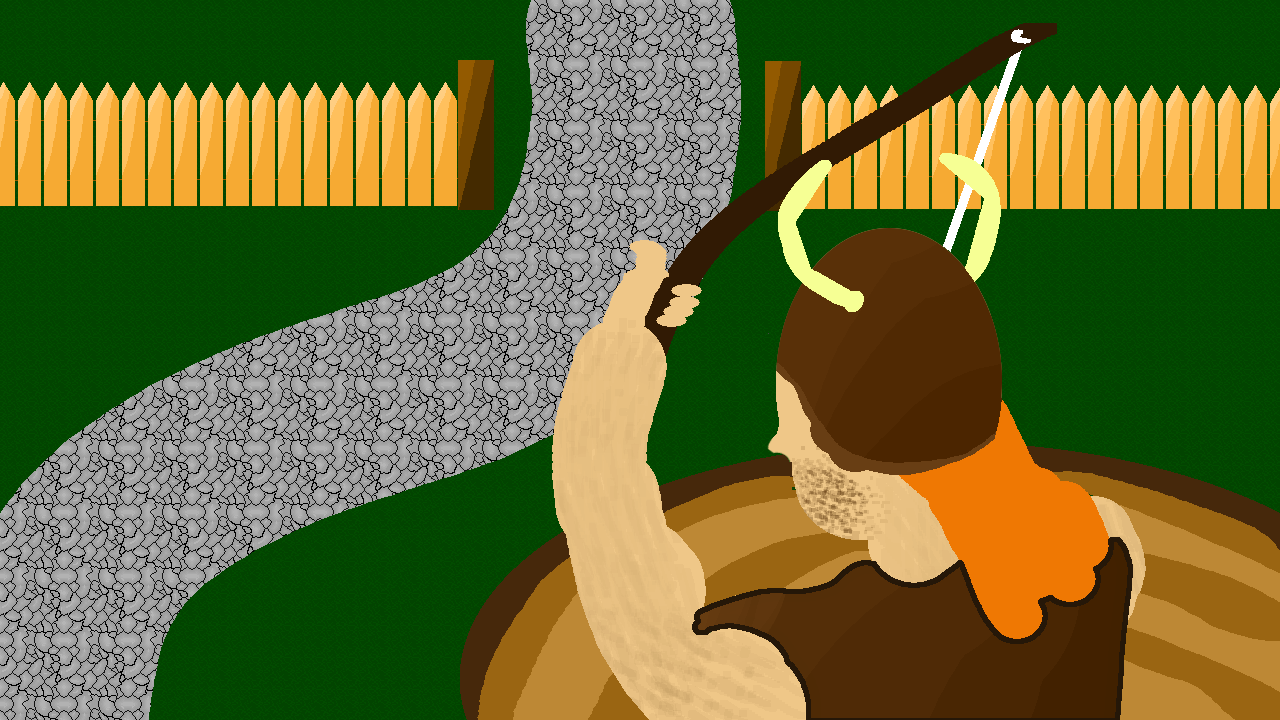
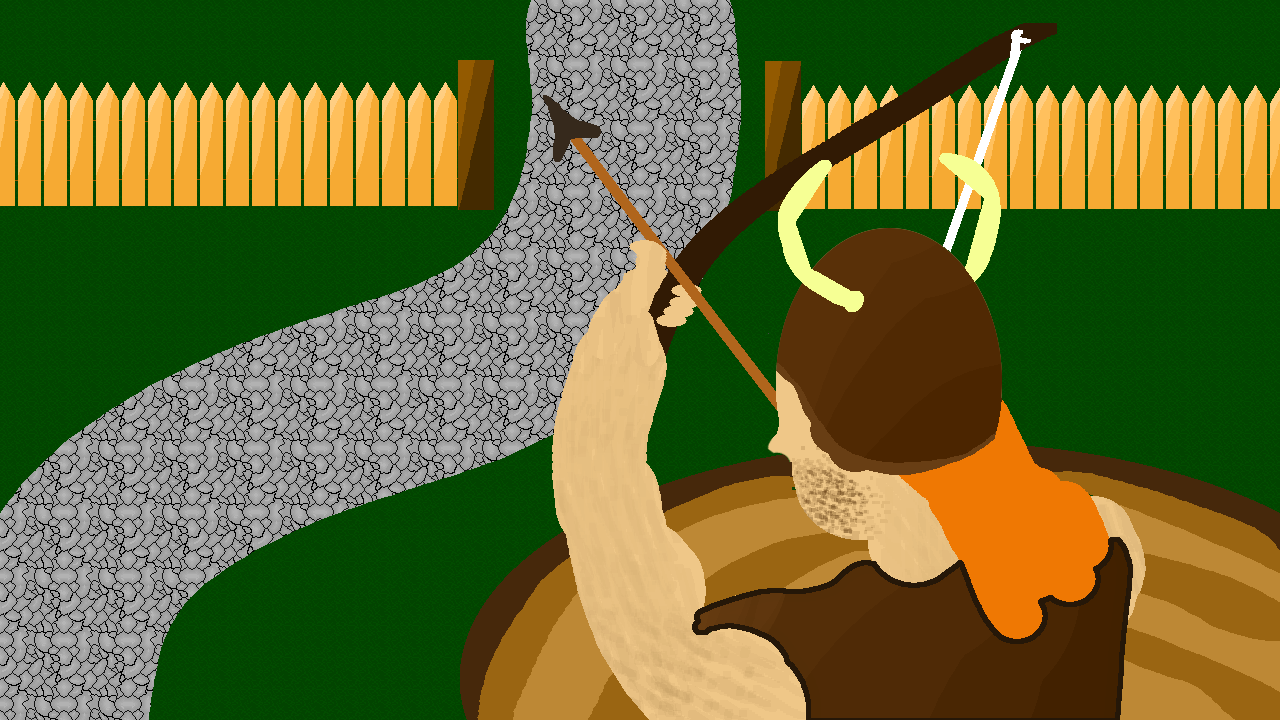
Added new menu backgrounds and the start of combat
I also changed the text on the top bar in TD mode to be displayed as
integers.

diff --git a/rtslib/ssent.py b/rtslib/ssent.py
@@ -1,7 +1,7 @@
 import pygame
 
 class ssent():
-	def __init__(self, dist, speed, width, sheet, path, team):
+	def __init__(self, dist, speed, width, sheet, path, team, health, attack):
 		self.dist = dist
 		self.speed = speed
 		self.width = width
@@ -12,18 +12,25 @@ class ssent():
 		self.sheet.setFlipped(self.speed<0)
 		self.counter = 0
 		self.team = team
+		self.maxhealth = health
+		self.health = health
+		self.attack = attack
 		
 	def update(self, entities):
 		self.dist+=self.speed
 		for ent in entities:
 			if abs(self.dist-ent.dist) < self.width+ent.width and self.dist!=ent.dist:
 				self.dist-=self.speed
+				if self.team != ent.team:
+					ent.health-=self.attack["power"]
 		self.pos = self.path.calcPos(self.dist)
 		self.counter+=1
 		if self.counter == 8:
 			self.sheet.nextImage()
 			self.counter = 0
 		if self.dist < 0 or self.dist > 100:
+			self.remove = True
+		if self.health <= 0:
 			self.remove = True
 		
 	def pathDistance(dist):
@@ -35,3 +42,6 @@ class ssent():
 	def draw(self, surface, cpos):
 		#pygame.draw.circle(surface, [0,0,255], [int(self.pos[0]),int(self.pos[1])], 3, 0)
 		surface.blit(self.sheet.getImage(), [self.pos[0]-cpos-(self.sheet.dim[0]/2), self.pos[1]-self.sheet.dim[1]])
+		if self.health!=self.maxhealth:
+			pygame.draw.rect(surface, [255,0,0], [self.pos[0]-((self.sheet.dim[0])/2)-cpos, self.pos[1]-self.sheet.dim[1]-5-2, self.sheet.dim[0], 5], 0) 
+			pygame.draw.rect(surface, [0,255,0], [self.pos[0]-((self.sheet.dim[0])/2)-cpos, self.pos[1]-self.sheet.dim[1]-5-2, self.sheet.dim[0]*(self.health/self.maxhealth), 5], 0) 

diff --git a/rtslib/ssworld.py b/rtslib/ssworld.py
@@ -26,11 +26,14 @@ class ssworld():
 		self.currentwavespawned=0
 		self.spawnqueue=[]
 		
+		self.testattack = {"style":"melee", "power":0.05}
+		self.testattack2 = {"style":"melee", "power":1}
+		
 	def update(self, events):
 		#Handle events
 		for event in events:
 			if event.type == pygame.MOUSEBUTTONDOWN:
-				self.ssentities.append(ssent(0.0, 0.015, 0.3, sheet("resources/Knight.png", [36,36]), self.path, True))
+				self.ssentities.append(ssent(0.0, 0.015, 0.3, sheet("resources/Knight.png", [36,36]), self.path, True, 100, self.testattack2))
 			if event.type == pygame.KEYDOWN:
 				#Camera movement
 				if event.key == pygame.K_RIGHT:
@@ -61,7 +64,7 @@ class ssworld():
 			if self.script[self.currentop]["command"] == "spawn" or self.script[self.currentop]["command"] == "spawnwave": #Spawning enemies, or waiting between spawns in a "wave"
 				if self.currentwavespawned < len(self.spawnqueue):
 					if self.scripttimer == 0:
-						self.ssentities.append(ssent(100.0, -float(self.units[self.spawnqueue[self.currentwavespawned]]["properties"][1]), 0.3, sheet("resources/badstick.png", [32,32]), self.path, False))
+						self.ssentities.append(ssent(100.0, -float(self.units[self.spawnqueue[self.currentwavespawned]]["properties"][1]), 0.3, sheet("resources/badstick.png", [32,32]), self.path, False, float(self.units[self.spawnqueue[self.currentwavespawned]]["properties"][0]), self.testattack))
 						self.currentwavespawned += 1
 						if self.script[self.currentop]["command"] == "spawn":
 							self.scripttimer = self.script[self.currentop]["delay"]*60

diff --git a/rtslib/menu.py b/rtslib/menu.py
@@ -9,6 +9,9 @@ class menu():
 							pygame.image.load("resources/ButtonMouseClick.png").convert_alpha()
 							]
 		self.mainbg = pygame.image.load("resources/mainmenubg.png").convert_alpha()
+		self.fileselectbg = pygame.image.load("resources/fileselectbg.png").convert_alpha()
+		self.creditsbg = pygame.image.load("resources/creditsbg.png").convert_alpha()
+		
 		self.mainbuttons = [rtslib.button("play", [100,325], self.clickHandler, self.menubuttonset, "resources/Deutsch.ttf", "Play"),
 							rtslib.button("settings", [100,405], self.clickHandler, self.menubuttonset, "resources/Deutsch.ttf", "Settings"),
 							rtslib.button("credits", [100,485], self.clickHandler, self.menubuttonset, "resources/Deutsch.ttf", "Credits"),
@@ -32,7 +35,7 @@ class menu():
 			for b in self.mainbuttons:
 				b.draw(surface)
 		elif self.state == "fileselect":
-			surface.blit(self.mainbg, [0,0]) #change to a different bg
+			surface.blit(self.fileselectbg, [0,0]) #change to a different bg
 			for b in self.fileselectbuttons:
 				b.draw(surface)
 		elif self.state == "settings":
@@ -40,7 +43,7 @@ class menu():
 			for b in self.settingsbuttons:
 				b.draw(surface)
 		elif self.state == "credits":
-			surface.blit(self.mainbg, [0,0]) #change to a different bg
+			surface.blit(self.creditsbg, [0,0]) #change to a different bg
 			for b in self.creditsbuttons:
 				b.draw(surface)
 		

diff --git a/rtslib/tdworld.py b/rtslib/tdworld.py
@@ -50,10 +50,10 @@ class tdworld():
 						ent2.action(self, "")  
 		self.gold += self.pop * 10.0 / 3600.0 # 10 gold per min per pop - gold trickle based on population
 		self.UIelements = [[pygame.image.load("resources/GameTopBar.png").convert_alpha(), (0,0)], \
-						   [self.topBarText.render(     "pop: " + str(round(self.pop)) + \
-													"    food: " + str(round(self.food)) + \
-													"    wood: " + str(round(self.wood)) + \
-													"    gold: " + str(round(self.gold)), 1, (255,255,0)), (10, 10)]] # update resource UI
+						   [self.topBarText.render(     "pop: " + str(int(self.pop)) + \
+													"    food: " + str(int(self.food)) + \
+													"    wood: " + str(int(self.wood)) + \
+													"    gold: " + str(int(self.gold)), 1, (255,255,0)), (10, 10)]] # update resource UI
 	
 	def draw(self, surface):
 		surface.blit(self.background, (0,0)) # draw background
